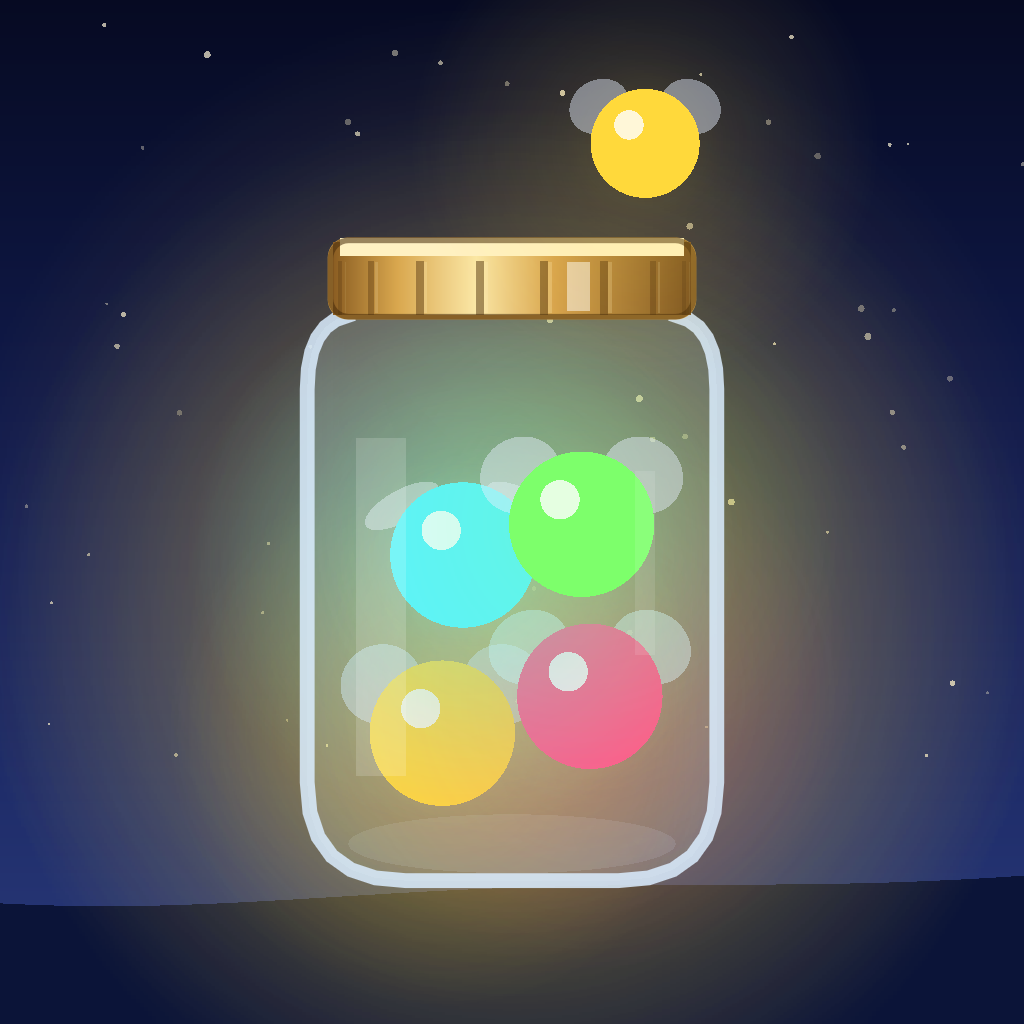
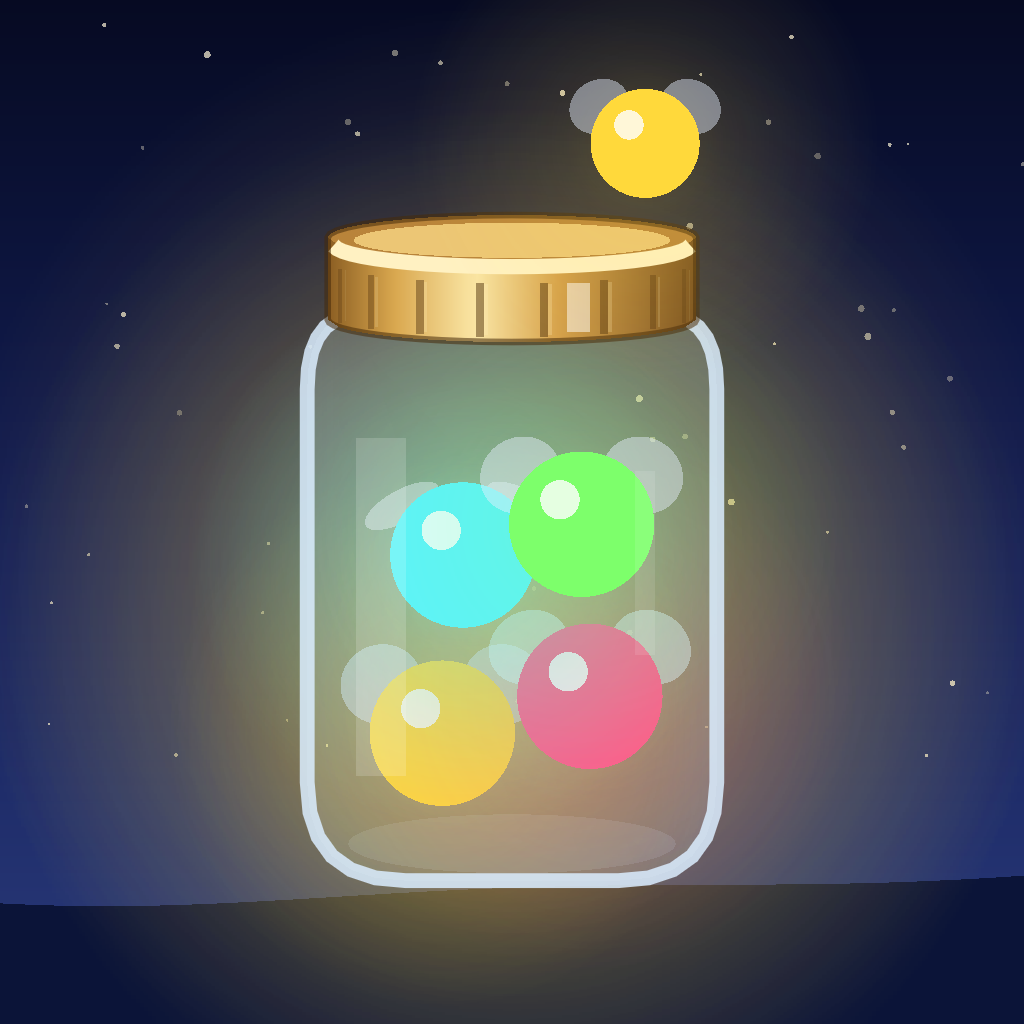
v0.26: round gold lid and cap
The menu jar's lid and the closed cap (loading screen, finished jars,
app icon) now curve like a short cylinder instead of a flat band.

Claude-Session: https://claude.ai/code/session_01TFPD5yDLepHTP1oXDXnTKJ

Changed region(s): [[0.3125, 0.1875, 0.6875, 0.3438]]

diff --git a/index.html b/index.html
@@ -436,7 +436,7 @@ svg.i { width: 1em; height: 1em; display: block; }
         <span class="txt"><b>Daily puzzle</b><span id="dailySub">A new puzzle every day</span></span>
         <span class="streak" id="dailyStreak" hidden></span>
       </button>
-      <div class="note"><span id="soundStatus">Tap anywhere to start the music</span> · Test build v0.25</div>
+      <div class="note"><span id="soundStatus">Tap anywhere to start the music</span> · Test build v0.26</div>
     </div>
   </div>
 </div>
@@ -1098,7 +1098,7 @@ function hill(g, baseY, amp, freq, phase, color) {
   g.lineTo(MW, MH); g.closePath(); g.fillStyle = color; g.fill();
 }
 // ---- the big menu jar: a glass mason jar with thick walls, a screw neck and a gold lid propped open ----
-function heroBody(J) { return { x: J.x, y: J.y + J.h * .1, w: J.w, h: J.h * .9, m: J.w * .1 }; }
+function heroBody(J) { return { x: J.x, y: J.y + J.h * .1, w: J.w, h: J.h * .9, m: J.w * .15 }; }
 function heroBack(g, J, T, ground) {
   const b = heroBody(J), cx = b.x + b.w / 2;
   // shadow and warm light pooling on the ground
@@ -1144,9 +1144,14 @@ function heroFront(g, J, T) {
   g.save(); g.translate(x + w * .92, top + w * .005); g.rotate(.4 + .03 * Math.sin(T * 1.3));
   glow(g, -lid * .5, lh * .3, lid * .6, "#ffd36a", .25);
   const lg = g.createLinearGradient(0, -lh, 0, 0); lg.addColorStop(0, "#f5cf6a"); lg.addColorStop(.5, "#d79b34"); lg.addColorStop(1, "#8f5a17");
-  g.fillStyle = lg; roundRect(g, -lid, -lh, lid, lh, lh * .22, lh * .22); g.fill();
-  g.strokeStyle = "rgba(90,50,10,.55)"; g.lineWidth = Math.max(1, w * .008);
-  for (let k = 1; k < 14; k++) { const lx = -lid + k * lid / 14; g.beginPath(); g.moveTo(lx, -lh * .78); g.lineTo(lx, -lh * .12); g.stroke(); }
+  const ry = lh * .42;   // the same oval as the top of the lid
+  g.fillStyle = lg; g.beginPath(); g.moveTo(-lid, -lh); g.lineTo(-lid, 0); g.ellipse(-lid / 2, 0, lid / 2, ry, 0, Math.PI, 0, true);
+  g.lineTo(0, -lh); g.ellipse(-lid / 2, -lh, lid / 2, ry, 0, 0, Math.PI); g.closePath(); g.fill();
+  g.strokeStyle = "rgba(110,60,12,.6)"; g.lineWidth = Math.max(1, w * .008); g.beginPath(); g.ellipse(-lid / 2, 0, lid / 2, ry, 0, .02, Math.PI - .02); g.stroke();
+  // ridges around the side, closer together toward the edges as they turn away
+  g.strokeStyle = "rgba(90,50,10,.55)";
+  for (let k = 1; k < 18; k++) { const a = Math.PI - k * Math.PI / 18, lx = -lid / 2 + Math.cos(a) * lid / 2, dy = Math.sin(a) * ry;
+    g.lineWidth = Math.max(.6, w * .008 * (.4 + .6 * Math.sin(a))); g.beginPath(); g.moveTo(lx, -lh * .78 + dy); g.lineTo(lx, -lh * .12 + dy); g.stroke(); }
   const tg = g.createLinearGradient(0, -lh * 1.45, 0, -lh * .6); tg.addColorStop(0, "#fff0b0"); tg.addColorStop(1, "#e2a940");
   g.fillStyle = tg; g.beginPath(); g.ellipse(-lid / 2, -lh, lid / 2, lh * .42, 0, 0, 6.283); g.fill();
   g.strokeStyle = "rgba(150,95,25,.6)"; g.lineWidth = Math.max(1, w * .01); g.beginPath(); g.ellipse(-lid / 2, -lh, lid * .36, lh * .26, 0, 0, 6.283); g.stroke();
@@ -1893,11 +1898,16 @@ function paintCap(g, r, age) {
   const w = r.w, T = capTimeline(age), cx = r.x + w / 2;
   const cw = w * .9, x0 = cx - cw / 2, bh = w * .2 * T.squash, top = r.y - w * .07 - T.lift * w + (w * .2 - bh);
   g.save(); g.globalAlpha = T.alpha;
+  const half = cw / 2, bend = w * .055, dy = x => { const t = Math.max(-1, Math.min(1, (x - cx) / half)); return bend * Math.sqrt(1 - t * t); };
+  const band = () => { g.beginPath(); g.moveTo(x0, top); g.lineTo(x0, top + bh); g.ellipse(cx, top + bh, half, bend, 0, Math.PI, 0, true); g.lineTo(x0 + cw, top); g.ellipse(cx, top, half, bend, 0, 0, Math.PI); g.closePath(); };
+  // the flat top of the lid
+  g.fillStyle = "#b9843a"; g.beginPath(); g.ellipse(cx, top, half, bend, 0, 0, 6.283); g.fill();
+  g.fillStyle = "#ecc675"; g.beginPath(); g.ellipse(cx, top + bend * .12, half * .86, bend * .78, 0, 0, 6.283); g.fill();
   // the band, shaded like a metal cylinder
   const mg = g.createLinearGradient(x0, 0, x0 + cw, 0);
   mg.addColorStop(0, "#8a5d22"); mg.addColorStop(.18, "#d9a74e"); mg.addColorStop(.4, "#fbe7a6"); mg.addColorStop(.62, "#d6a24c"); mg.addColorStop(1, "#7a5220");
-  g.fillStyle = mg; roundRect(g, x0, top, cw, bh, w * .05, w * .05); g.fill();
-  g.save(); roundRect(g, x0, top, cw, bh, w * .05, w * .05); g.clip();
+  g.fillStyle = mg; band(); g.fill();
+  g.save(); band(); g.clip();
   // ridges around the band: they travel across the front as it turns, bunching up at the sides
   const N = 18;
   for (let k = 0; k < N; k++) {
@@ -1905,21 +1915,23 @@ function paintCap(g, r, age) {
     if (front <= 0) continue;
     const x = cx + Math.cos(a) * cw / 2;
     g.strokeStyle = `rgba(80,48,12,${.15 + .35 * front})`; g.lineWidth = Math.max(1, w * .022 * front);
-    g.beginPath(); g.moveTo(x, top + bh * .28); g.lineTo(x, top + bh * .94); g.stroke();
+    const yy = top + dy(x);
+    g.beginPath(); g.moveTo(x, yy + bh * .28); g.lineTo(x, yy + bh * .94); g.stroke();
     g.strokeStyle = `rgba(255,240,190,${.25 * front})`; g.lineWidth = Math.max(.5, w * .01 * front);
-    g.beginPath(); g.moveTo(x + w * .014, top + bh * .3); g.lineTo(x + w * .014, top + bh * .92); g.stroke();
+    g.beginPath(); g.moveTo(x + w * .014, yy + bh * .3); g.lineTo(x + w * .014, yy + bh * .92); g.stroke();
   }
   // one bright mark on the band so the turning is easy to follow
   const ma = T.spin + 1.2, mf = Math.sin(ma);
-  if (mf > 0) { g.fillStyle = `rgba(255,255,255,${.55 * mf})`; g.fillRect(cx + Math.cos(ma) * cw / 2 - w * .03 * mf, top + bh * .3, w * .06 * mf, bh * .6); }
+  if (mf > 0) { g.fillStyle = `rgba(255,255,255,${.55 * mf})`; const mx = cx + Math.cos(ma) * cw / 2; g.fillRect(mx - w * .03 * mf, top + dy(mx) + bh * .3, w * .06 * mf, bh * .6); }
   // shine sweeping across once it clicks shut
   const gt = (age - CAP_TOTAL - 120) / 420;
-  if (gt > 0 && gt < 1) { const gx = x0 - w * .3 + gt * (cw + w * .6), gg = g.createLinearGradient(gx - w * .15, 0, gx + w * .15, 0); gg.addColorStop(0, "rgba(255,255,255,0)"); gg.addColorStop(.5, "rgba(255,255,255,.8)"); gg.addColorStop(1, "rgba(255,255,255,0)"); g.fillStyle = gg; g.fillRect(x0, top, cw, bh); }
+  if (gt > 0 && gt < 1) { const gx = x0 - w * .3 + gt * (cw + w * .6), gg = g.createLinearGradient(gx - w * .15, 0, gx + w * .15, 0); gg.addColorStop(0, "rgba(255,255,255,0)"); gg.addColorStop(.5, "rgba(255,255,255,.8)"); gg.addColorStop(1, "rgba(255,255,255,0)"); g.fillStyle = gg; g.fillRect(x0, top - bend, cw, bh + bend * 2); }
   g.restore();
   // rolled top edge
   const tg = g.createLinearGradient(x0, 0, x0 + cw, 0); tg.addColorStop(0, "#c99a4a"); tg.addColorStop(.4, "#fff3c8"); tg.addColorStop(1, "#b9873a");
-  g.fillStyle = tg; roundRect(g, x0 + w * .02, top, cw - w * .04, Math.max(2, bh * .22), w * .04, w * .02); g.fill();
-  g.strokeStyle = "rgba(70,40,10,.55)"; g.lineWidth = Math.max(1, w * .015); roundRect(g, x0, top, cw, bh, w * .05, w * .05); g.stroke();
+  g.strokeStyle = tg; g.lineWidth = Math.max(2, bh * .18); g.lineCap = "round"; g.beginPath(); g.ellipse(cx, top + bh * .08, half * .97, bend, 0, .08, Math.PI - .08); g.stroke();
+  g.strokeStyle = "rgba(70,40,10,.55)"; g.lineWidth = Math.max(1, w * .015);
+  g.beginPath(); g.ellipse(cx, top, half, bend, 0, Math.PI, 6.283); g.lineTo(x0 + cw, top + bh); g.ellipse(cx, top + bh, half, bend, 0, 0, Math.PI); g.closePath(); g.stroke();
   g.restore();
 }
 // after the click the whole jar gives a tiny wobble

diff --git a/tools/web/edit_hint.py b/tools/web/edit_hint.py
@@ -79,3 +79,54 @@ rep('''g.fillStyle = "#ffcf3a"; crownPath(g, p.x, p.y - r * 1.05, r * .8); g.fil
     '''drawCrown(g, p.x, p.y - r * 1.05, r * .85, false); }''')
 open(p, "w", encoding="utf-8").write(s)
 print("crown ok")
+
+# ---- the menu jar's gold lid is a real round lid: its side curves along an oval, like a short cylinder ----
+s = open(p, encoding="utf-8").read()
+rep('''  g.fillStyle = lg; roundRect(g, -lid, -lh, lid, lh, lh * .22, lh * .22); g.fill();
+  g.strokeStyle = "rgba(90,50,10,.55)"; g.lineWidth = Math.max(1, w * .008);
+  for (let k = 1; k < 14; k++) { const lx = -lid + k * lid / 14; g.beginPath(); g.moveTo(lx, -lh * .78); g.lineTo(lx, -lh * .12); g.stroke(); }''',
+'''  const ry = lh * .42;   // the same oval as the top of the lid
+  g.fillStyle = lg; g.beginPath(); g.moveTo(-lid, -lh); g.lineTo(-lid, 0); g.ellipse(-lid / 2, 0, lid / 2, ry, 0, Math.PI, 0, true);
+  g.lineTo(0, -lh); g.ellipse(-lid / 2, -lh, lid / 2, ry, 0, 0, Math.PI); g.closePath(); g.fill();
+  g.strokeStyle = "rgba(110,60,12,.6)"; g.lineWidth = Math.max(1, w * .008); g.beginPath(); g.ellipse(-lid / 2, 0, lid / 2, ry, 0, .02, Math.PI - .02); g.stroke();
+  // ridges around the side, closer together toward the edges as they turn away
+  g.strokeStyle = "rgba(90,50,10,.55)";
+  for (let k = 1; k < 18; k++) { const a = Math.PI - k * Math.PI / 18, lx = -lid / 2 + Math.cos(a) * lid / 2, dy = Math.sin(a) * ry;
+    g.lineWidth = Math.max(.6, w * .008 * (.4 + .6 * Math.sin(a))); g.beginPath(); g.moveTo(lx, -lh * .78 + dy); g.lineTo(lx, -lh * .12 + dy); g.stroke(); }''')
+open(p, "w", encoding="utf-8").write(s)
+print("lid ok")
+
+# ---- the closed cap on finished jars and the loading jar is round too: a short cylinder seen a little from above ----
+s = open(p, encoding="utf-8").read()
+rep('''  g.save(); g.globalAlpha = T.alpha;
+  // the band, shaded like a metal cylinder
+  const mg = g.createLinearGradient(x0, 0, x0 + cw, 0);
+  mg.addColorStop(0, "#8a5d22"); mg.addColorStop(.18, "#d9a74e"); mg.addColorStop(.4, "#fbe7a6"); mg.addColorStop(.62, "#d6a24c"); mg.addColorStop(1, "#7a5220");
+  g.fillStyle = mg; roundRect(g, x0, top, cw, bh, w * .05, w * .05); g.fill();
+  g.save(); roundRect(g, x0, top, cw, bh, w * .05, w * .05); g.clip();''',
+'''  g.save(); g.globalAlpha = T.alpha;
+  const half = cw / 2, bend = w * .055, dy = x => { const t = Math.max(-1, Math.min(1, (x - cx) / half)); return bend * Math.sqrt(1 - t * t); };
+  const band = () => { g.beginPath(); g.moveTo(x0, top); g.lineTo(x0, top + bh); g.ellipse(cx, top + bh, half, bend, 0, Math.PI, 0, true); g.lineTo(x0 + cw, top); g.ellipse(cx, top, half, bend, 0, 0, Math.PI); g.closePath(); };
+  // the flat top of the lid
+  g.fillStyle = "#b9843a"; g.beginPath(); g.ellipse(cx, top, half, bend, 0, 0, 6.283); g.fill();
+  g.fillStyle = "#ecc675"; g.beginPath(); g.ellipse(cx, top + bend * .12, half * .86, bend * .78, 0, 0, 6.283); g.fill();
+  // the band, shaded like a metal cylinder
+  const mg = g.createLinearGradient(x0, 0, x0 + cw, 0);
+  mg.addColorStop(0, "#8a5d22"); mg.addColorStop(.18, "#d9a74e"); mg.addColorStop(.4, "#fbe7a6"); mg.addColorStop(.62, "#d6a24c"); mg.addColorStop(1, "#7a5220");
+  g.fillStyle = mg; band(); g.fill();
+  g.save(); band(); g.clip();''')
+rep('''    g.beginPath(); g.moveTo(x, top + bh * .28); g.lineTo(x, top + bh * .94); g.stroke();''',
+'''    const yy = top + dy(x);
+    g.beginPath(); g.moveTo(x, yy + bh * .28); g.lineTo(x, yy + bh * .94); g.stroke();''')
+rep('''    g.beginPath(); g.moveTo(x + w * .014, top + bh * .3); g.lineTo(x + w * .014, top + bh * .92); g.stroke();''',
+'''    g.beginPath(); g.moveTo(x + w * .014, yy + bh * .3); g.lineTo(x + w * .014, yy + bh * .92); g.stroke();''')
+rep('''g.fillRect(cx + Math.cos(ma) * cw / 2 - w * .03 * mf, top + bh * .3, w * .06 * mf, bh * .6); }''',
+'''const mx = cx + Math.cos(ma) * cw / 2; g.fillRect(mx - w * .03 * mf, top + dy(mx) + bh * .3, w * .06 * mf, bh * .6); }''')
+rep('''g.fillStyle = gg; g.fillRect(x0, top, cw, bh); }''', '''g.fillStyle = gg; g.fillRect(x0, top - bend, cw, bh + bend * 2); }''')
+rep('''  g.fillStyle = tg; roundRect(g, x0 + w * .02, top, cw - w * .04, Math.max(2, bh * .22), w * .04, w * .02); g.fill();
+  g.strokeStyle = "rgba(70,40,10,.55)"; g.lineWidth = Math.max(1, w * .015); roundRect(g, x0, top, cw, bh, w * .05, w * .05); g.stroke();''',
+'''  g.strokeStyle = tg; g.lineWidth = Math.max(2, bh * .18); g.lineCap = "round"; g.beginPath(); g.ellipse(cx, top + bh * .08, half * .97, bend, 0, .08, Math.PI - .08); g.stroke();
+  g.strokeStyle = "rgba(70,40,10,.55)"; g.lineWidth = Math.max(1, w * .015);
+  g.beginPath(); g.ellipse(cx, top, half, bend, 0, Math.PI, 6.283); g.lineTo(x0 + cw, top + bh); g.ellipse(cx, top + bh, half, bend, 0, 0, Math.PI); g.closePath(); g.stroke();''')
+open(p, "w", encoding="utf-8").write(s)
+print("cap ok")

diff --git a/tools/web/edit_web.py b/tools/web/edit_web.py
@@ -223,7 +223,7 @@ rep('''  g.quadraticCurveTo(x + w, top + w * .14, x + w - nx, top + w * .12); g.
   g.closePath();
 }''')
 rep('''function heroBody(J) { return { x: J.x, y: J.y + J.h * .1, w: J.w, h: J.h * .9 }; }''',
-    '''function heroBody(J) { return { x: J.x, y: J.y + J.h * .1, w: J.w, h: J.h * .9, m: J.w * .1 }; }''')
+    '''function heroBody(J) { return { x: J.x, y: J.y + J.h * .1, w: J.w, h: J.h * .9, m: J.w * .15 }; }''')
 s = s.replace("jarPath(g, b);", "jarPath(g, b, b.m);")
 rep("h: b.h - inset * 1.3 });", "h: b.h - inset * 1.3 }, b.m * .85);")
 rep('''  // back edge of the open mouth

diff --git a/tools/web/edit_streak.py b/tools/web/edit_streak.py
@@ -134,5 +134,5 @@ rep('''  if (k === "map") {''', '''  if (k === "streak") { glow(g, cx, cy, 95, "
   if (k === "map") {''')
 open(p, "w", encoding="utf-8").write(s)
 print("streak ok")
-s = s.replace("· Test build v0.24</div>", "· Test build v0.25</div>")
+s = s.replace("· Test build v0.24</div>", "· Test build v0.26</div>")
 open(p, "w", encoding="utf-8").write(s)
